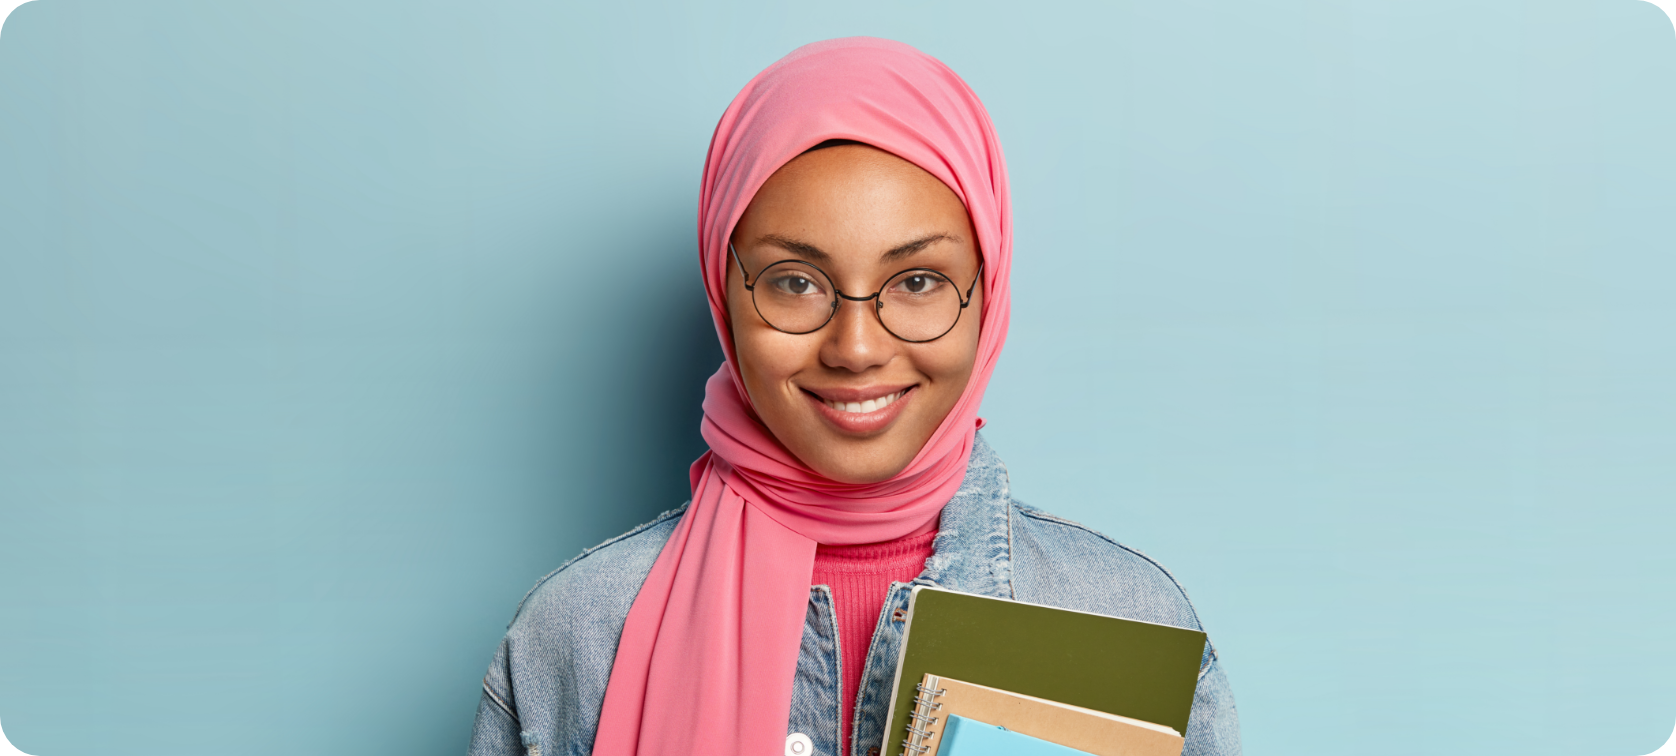
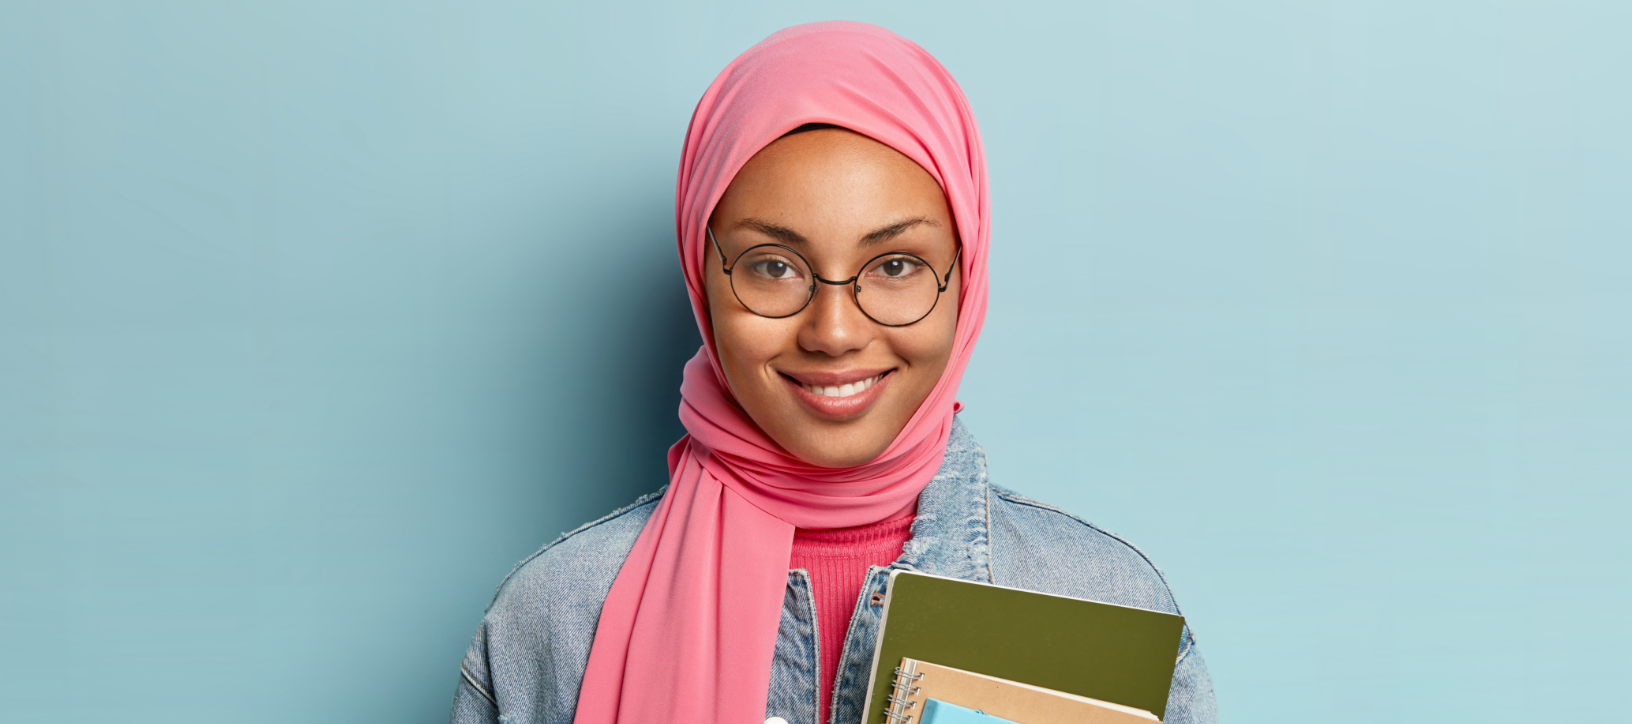
update project 9/2

diff --git a/pages/basket.vue b/pages/basket.vue
@@ -1,0 +1,292 @@
+<template>
+  <main class="basket">
+    <h1
+      role="head"
+      class="text-30 text-dark text-center padding-y-30 border-botton-whiteDark"
+    >
+      السلة
+    </h1>
+    <section>
+      <h2 class="custom-container padding-y-20">
+        <span class="text-20 text-dark margin-end-5">السلة</span>
+        <span class="text-16 text-silver weight-br-300">(كورس 3)</span>
+      </h2>
+      <div class="bg-alabaster radius-12 padding-y-45">
+        <!--  -->
+        <div
+          class="
+            row
+            custom-container
+            justify-content-center justify-content-lg-between
+          "
+        >
+          <!--  -->
+          <div class="col-12 col-lg-8 order-1 order-lg-0 padding-0">
+            <!--  -->
+            <div class="row row-cols-lg-1 gx-5 gy-4">
+              <div
+                v-for="i in 6"
+                :key="i"
+                class="col"
+                style="min-height: 19.6rem"
+              >
+                <div class="row bg-light padding-10 radius-12">
+                  <div class="col-12 col-md-4 padding-5 align-self-stretch">
+                    <figure
+                      class="margin-0 overflow-hidden radius-12 height-100"
+                    >
+                      <img
+                        class="resize-img"
+                        src="~/assets/images/who-we-are/2.png"
+                        alt=""
+                      />
+                    </figure>
+                  </div>
+                  <div class="col-12 col-md-8 padding-10">
+                    <h3 role="head" class="text-15 text-dark truncut-text">
+                      الفرق بين التايبوجرافي و الكاليجرافي وفن التعريب
+                    </h3>
+                    <div class="col d-flex align-items-center margin-y-10">
+                      <!--  -->
+                      <figure
+                        class="
+                          width-32
+                          flex-shrink-0
+                          margin-0
+                          height-32
+                          rounded-circle
+                        "
+                      >
+                        <img
+                          class="resize-img"
+                          src="~/assets/images/home/other/avatar.png"
+                          alt=""
+                        />
+                      </figure>
+                      <!--  -->
+                      <span class="margin-start-5 text-dark text-10"
+                        >أحمد حمدان</span
+                      >
+                    </div>
+                    <div class="d-flex align-items-center">
+                      <p
+                        role="new-price"
+                        class="d-flex text-18 text-dark margin-0 margin-end-10"
+                      >
+                        <span>S.R</span> <span class="m-s-2">50</span>
+                      </p>
+                      <del
+                        role="discount"
+                        class="d-flex text-silver text-14 weight-br-300"
+                      >
+                        <span>S.R</span>
+                        <span class="m-s-2">50</span>
+                      </del>
+                    </div>
+                    <!--  -->
+                    <div class="d-flex align-items-center margin-top-10">
+                      <BtnPrimary
+                        class="padding-y-5 padding-x-0 margin-end-15"
+                        @clicked="favi"
+                      >
+                        <template>
+                          <GSvg
+                            class="svg-20 fill-silver"
+                            name-icon="heart-fill"
+                            title="المفضلة"
+                          />
+                          <span
+                            class="
+                              text-silver text-11
+                              weight-br-300
+                              margin-start-5
+                            "
+                            >إضافة الى المفضلة</span
+                          >
+                        </template>
+                      </BtnPrimary>
+                      <BtnPrimary
+                        class="padding-y-5 padding-x-0"
+                        @clicked="delet"
+                      >
+                        <template>
+                          <GSvg
+                            class="svg-20 fill-silver"
+                            name-icon="delete"
+                            title="ازالة"
+                          />
+                          <span
+                            class="
+                              text-silver text-11
+                              weight-br-300
+                              margin-start-5
+                            "
+                            >ازالة</span
+                          >
+                        </template>
+                      </BtnPrimary>
+                    </div>
+                  </div>
+                </div>
+              </div>
+            </div>
+          </div>
+          <!--  -->
+          <div
+            style="max-width: 33rem"
+            class="
+              col
+              margin-bottom-20
+              lg-margin-start-0
+              margin-start-20
+              order-0 order-lg-1
+              align-self-start
+              padding-y-10
+              bg-light
+              radius-12
+            "
+          >
+            <h4
+              class="text-16 text-center padding-y-15 border-botton-whiteDark"
+            >
+              ملخص الطلب
+            </h4>
+            <!--  -->
+            <div class="padding-y-10 padding-x-20 border-botton-whiteDark">
+              <div
+                role="total"
+                class="d-flex align-items-center justify-content-between"
+              >
+                <span class="text-13 weight-br-300">المجموع الجزئي</span>
+                <span class="text-14 direction-ltr">700 S.R</span>
+              </div>
+              <div
+                role="discount"
+                class="
+                  d-flex
+                  align-items-center
+                  justify-content-between
+                  padding-y-5
+                "
+              >
+                <span class="text-13 weight-br-300">الخصم</span>
+                <span class="text-14 direction-ltr">300 S.R</span>
+              </div>
+              <div
+                role="discount percent"
+                class="d-flex align-items-center justify-content-between"
+              >
+                <span class="text-13 weight-br-300">نسبة الخصم</span>
+                <div class="d-flex align-items-center">
+                  <span class="text-14">50%</span>
+                  <span class="text-10 padding-start-5 weight-br-300">خصم</span>
+                </div>
+              </div>
+            </div>
+            <div class="padding-y-10 padding-x-20">
+              <div
+                role="total"
+                class="
+                  d-flex
+                  align-items-center
+                  justify-content-between
+                  padding-y-10
+                "
+              >
+                <span class="text-13">المجموع الجزئي</span>
+                <span class="text-15 direction-ltr">40 S.R</span>
+              </div>
+            </div>
+            <form class="margin-bottom-40 padding-x-10 position-relative">
+              <input
+                type="text"
+                placeholder="أدخل كود الكوبون"
+                class="
+                  padding-start-15
+                  border-whiteDark-1
+                  width-100
+                  padding-y-10
+                  radius-12
+                  text-12
+                "
+              />
+              <BtnPrimary
+                class="
+                  text-light
+                  radius-10
+                  btn-Voodoo
+                  bg-Voodoo
+                  text-11
+                  padding-y-5
+                  position-absolute
+                "
+                @clicked="activate"
+              >
+                تفعيل
+              </BtnPrimary>
+            </form>
+            <BtnPrimary
+              style="height: 6rem"
+              class="
+                width-100
+                text-light
+                radius-18
+                btn-emerald
+                bg-emerald
+                text-14
+              "
+              @clicked="done"
+            >
+              اتمام الشراء
+            </BtnPrimary>
+          </div>
+        </div>
+      </div>
+    </section>
+  </main>
+</template>
+
+<script>
+export default {
+  name: 'Basket',
+  methods: {
+    favi() {
+      // eslint-disable-next-line no-console
+      console.log('favorit')
+    },
+    delet() {
+      // eslint-disable-next-line no-console
+      console.log('delet')
+    },
+    done() {
+      // eslint-disable-next-line no-console
+      console.log('اتمام الشراء')
+    },
+    activate() {
+      // eslint-disable-next-line no-console
+      console.log('تفعيل')
+    },
+  },
+  head: {
+    title: 'السلة',
+  },
+}
+</script>
+
+<style lang="scss" scoped>
+.basket {
+  form {
+    & input {
+      &::placeholder {
+        font-weight: 300;
+        color: var(--silver);
+      }
+    }
+
+    button {
+      @include position('rt', $moveT: '50%', $moveR: '1.5rem');
+      width: 9rem;
+    }
+  }
+}
+</style>

diff --git a/pages/who-we-are.vue b/pages/who-we-are.vue
@@ -39,7 +39,7 @@
       <section role="about" class="padding-y-10 margin-bottom-10">
         <div class="row g-0 justify-content-center">
           <div class="col-12 col-sm-10">
-            <figure class="margin-bottom-20">
+            <figure class="margin-bottom-20 radius-21 overflow-hidden">
               <img
                 class="resize-img"
                 src="~/assets/images/who-we-are/2.png"

diff --git a/assets/style/general/_base.scss b/assets/style/general/_base.scss
@@ -59,8 +59,8 @@ body {
 
 //
 .custom-container {
-  max-width: 1087px;
+  max-width: 108.7rem;
   margin: 0 auto;
-  padding-left: 2rem;
-  padding-right: 2rem;
+  padding-left: 1rem;
+  padding-right: 1rem;
 }
